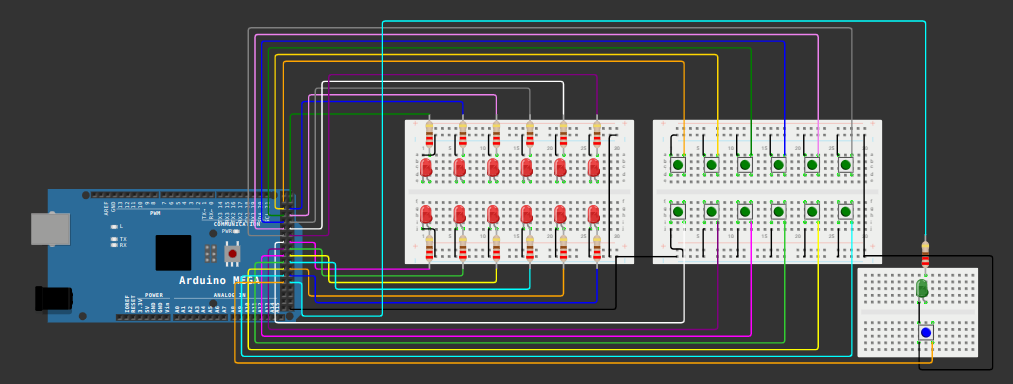
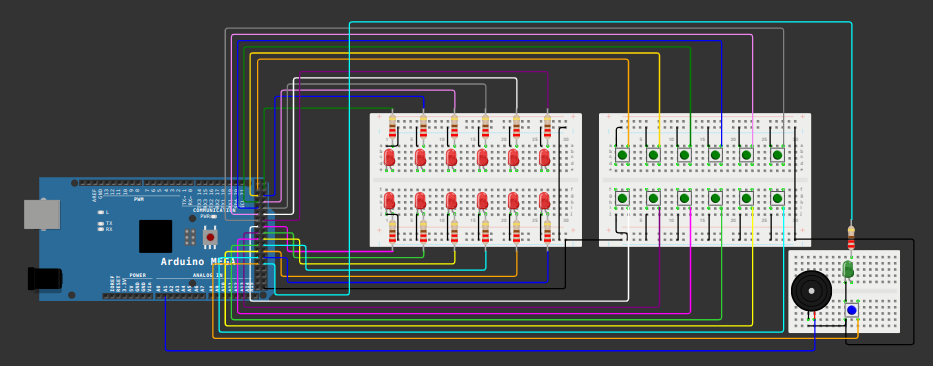
Adicionando buzzer

Changed region(s): [[0.0, 0.0301, 0.9946, 0.9617]]

diff --git a/README.md b/README.md
@@ -15,6 +15,7 @@
 - **Placa Arduino Mega 2560**
 - **13 LEDs** (cores à sua escolha)
 - **13 Botões**
+- **1 Buzzer**
 - **Resistores**:
   - 220Ω para os LEDs
 - **Protoboard** e fios de conexão
@@ -62,6 +63,14 @@ Os botões estão conectados às seguintes portas digitais:
 | Botão 13(botão de início)| 46    |
 
 
+### Buzzers
+Os buzzers estão conectados às seguintes portas digitais:
+
+| Buzzer   | Porta |
+|-------|-------|
+| Buzzer | A1    |
+
+
 ## Funcionamento do Jogo
 
 1. Para começar o jogo, verifique se o led de início está aceso, e aperte o botão de início para começar o jogo.
@@ -76,9 +85,10 @@ Os botões estão conectados às seguintes portas digitais:
 
 1. Conecte os **LEDs** às portas especificadas na seção de **Pinagem**. Use resistores de 220Ω em série com cada LED para evitar danos.
 2. Conecte os **botões** às portas especificadas na seção de **Pinagem**. Não é necessária a utilização de resistores de 10kΩ, pois o sistema utiliza o INPUT_PULLUP interno do arduino.
-3. Monte o circuito na protoboard, organizando os componentes para facilitar a conexão e manutenção.
-4. Conecte o Arduino Mega ao computador via cabo USB.
-5. Faça o upload do código do projeto (disponível abaixo) para o Arduino.
+3. Conecte o Buzzer na porta especificada.
+4. Monte o circuito na protoboard, organizando os componentes para facilitar a conexão e manutenção.
+5. Conecte o Arduino Mega ao computador via cabo USB.
+6. Faça o upload do código do projeto (disponível abaixo) para o Arduino.
 
 ## Código
 
